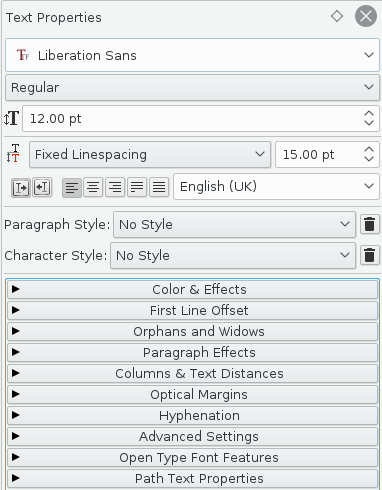
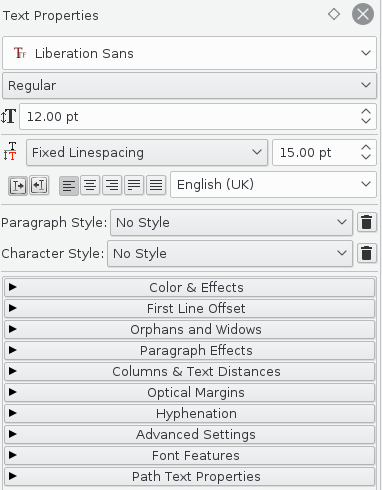
adjustment in manual to change in Text Properties
git-svn-id: https://www.scribus.net/svn/Scribus/trunk/Scribus@21624 11d20701-8431-0410-a711-e3c959e3b870

Changed region(s): [[0.0, 0.0, 1.0, 1.0]]

diff --git a/doc/en/TextProp.html b/doc/en/TextProp.html
@@ -96,7 +96,7 @@
 <td><img src="images/text_tab13.png" ALT="Advanced Settings" ALIGN="right"></td>
 </tr>
 </table>
-<h3>Open Type Font Features</h3>
+<h3>Font Features</h3>
 <table cellpadding=3 width="80%">
   <tr><td valign="top"><p>Thanks to the extremely dedicated work of some developers new to Scribus, we can now offer some advanced features capable with Open Type Fonts, and also true Right-to-Left capability, a feature of languages such as Arabic and Hebrew.</p>
       <p> This particular section of Text Properties can make use of alternate character sets which are present in OTF. There has been an intensive effort in bringing this about, and we want to encourage users to file reports of any remaining issues they may find with a particular language.</p>
